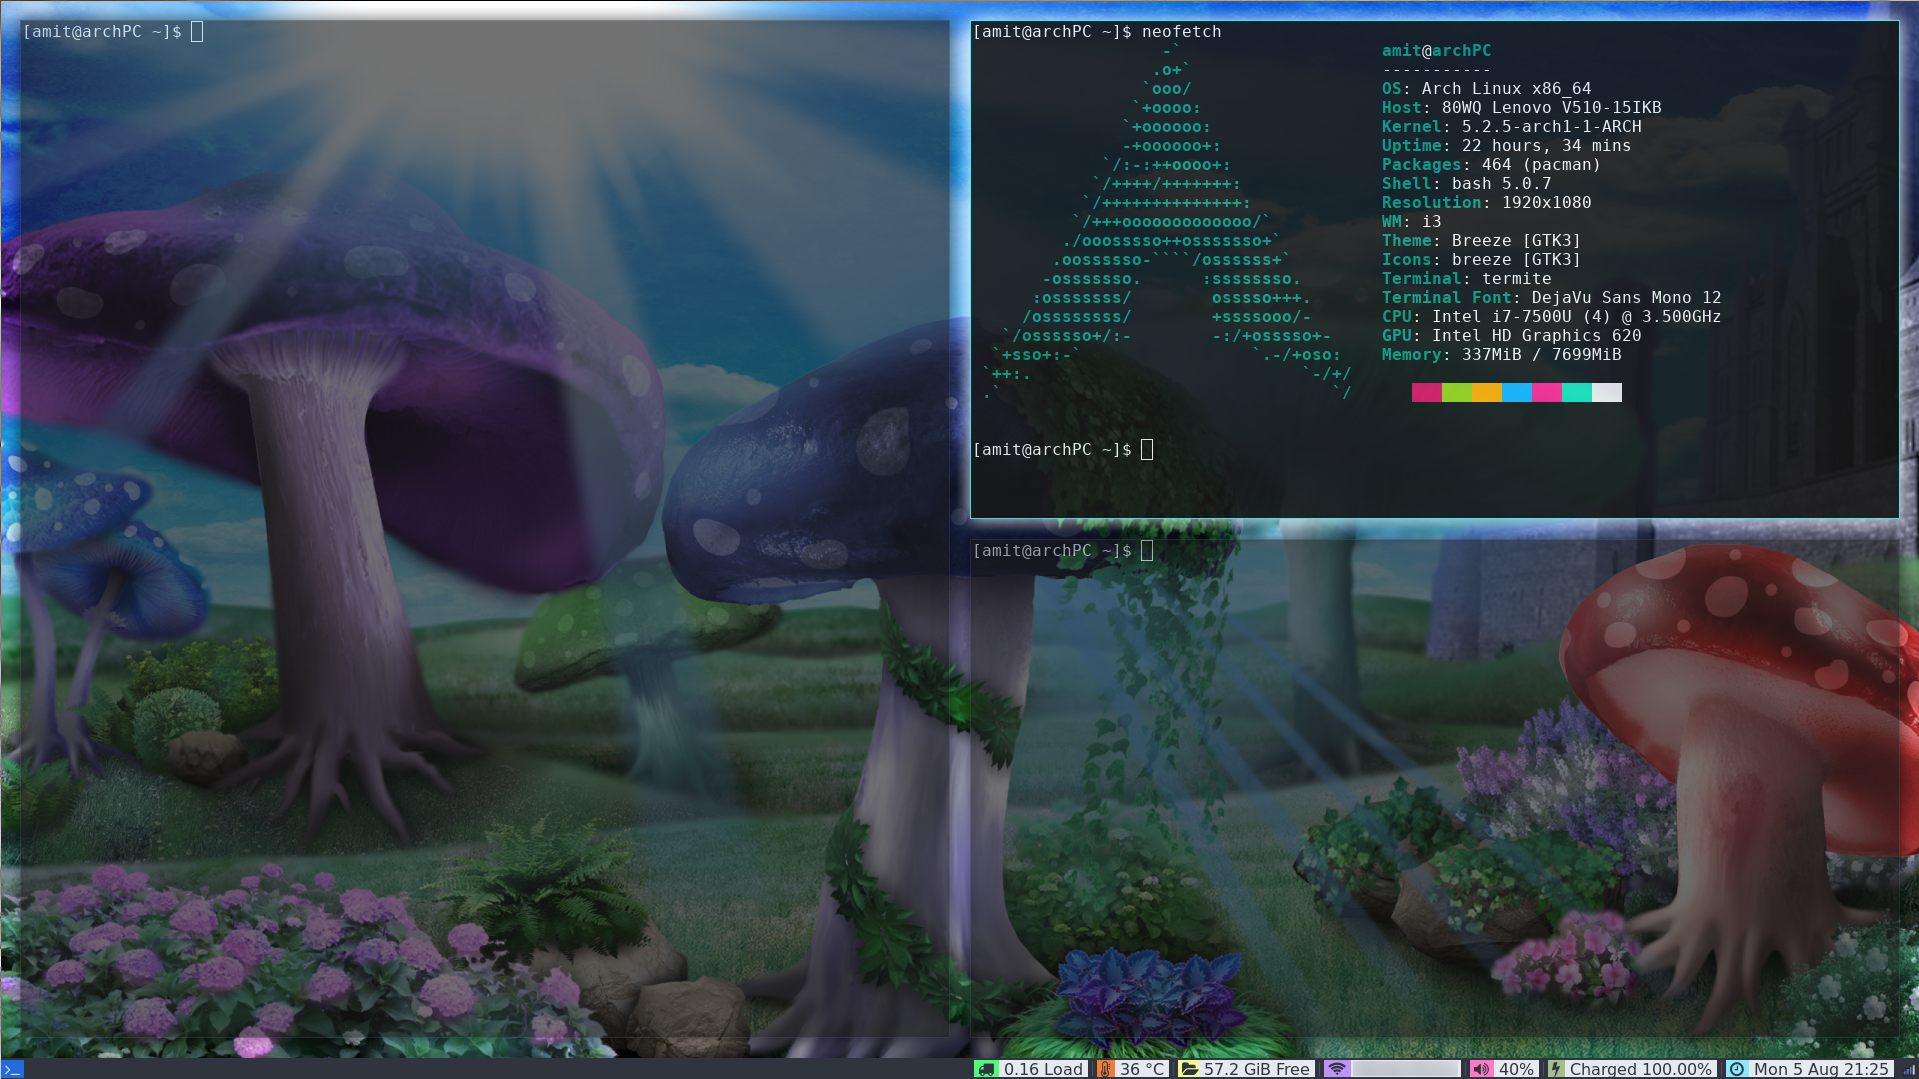
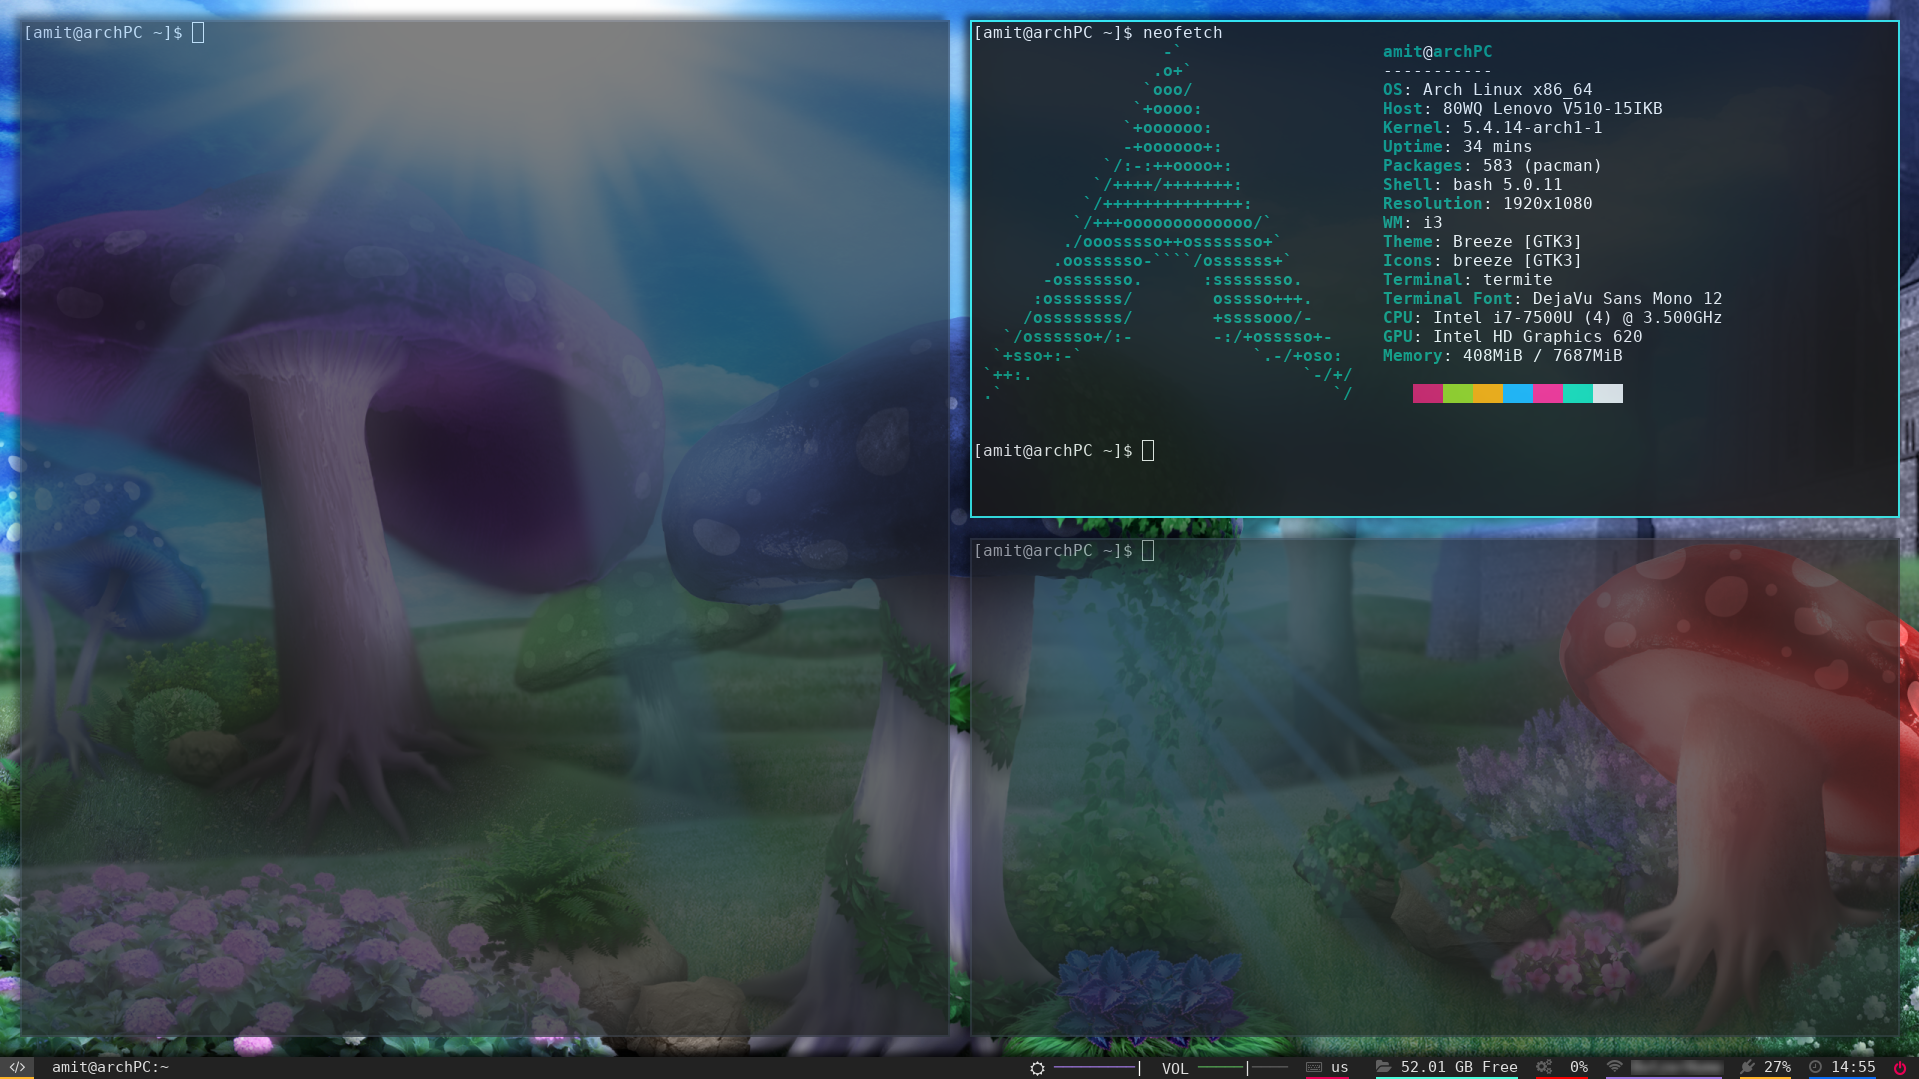
updated desktop screenshot

diff --git a/README.md b/README.md
@@ -3,7 +3,6 @@ This is a repository dedicated to back-up and sharing of my dotfiles (and custom
 
 ## Screenshots
 ![Desktop](https://github.com/BigB00st/Dotfiles/blob/master/.dotfiles/.screenshots/desktop.png)
-![CMatrixDesktop](https://github.com/BigB00st/Dotfiles/blob/master/.dotfiles/.screenshots/cmatrixdesktop.png)
 
 ## Overall View:
 | Program | Name |
@@ -24,6 +23,6 @@ This is a repository dedicated to back-up and sharing of my dotfiles (and custom
 ### Fonts used:
 | Font Name | Usage |
 | :--- | :---- |
-| [Font Awesome Icons](https://fontawesome.com/cheatsheet) | i3status |
-| [DejaVu Sans Mono](https://dejavu-fonts.github.io/) | i3status, termite |
+| [Font Awesome Icons](https://fontawesome.com/cheatsheet) | polybar |
+| [DejaVu Sans Mono](https://dejavu-fonts.github.io/) | polybar, termite |
 
